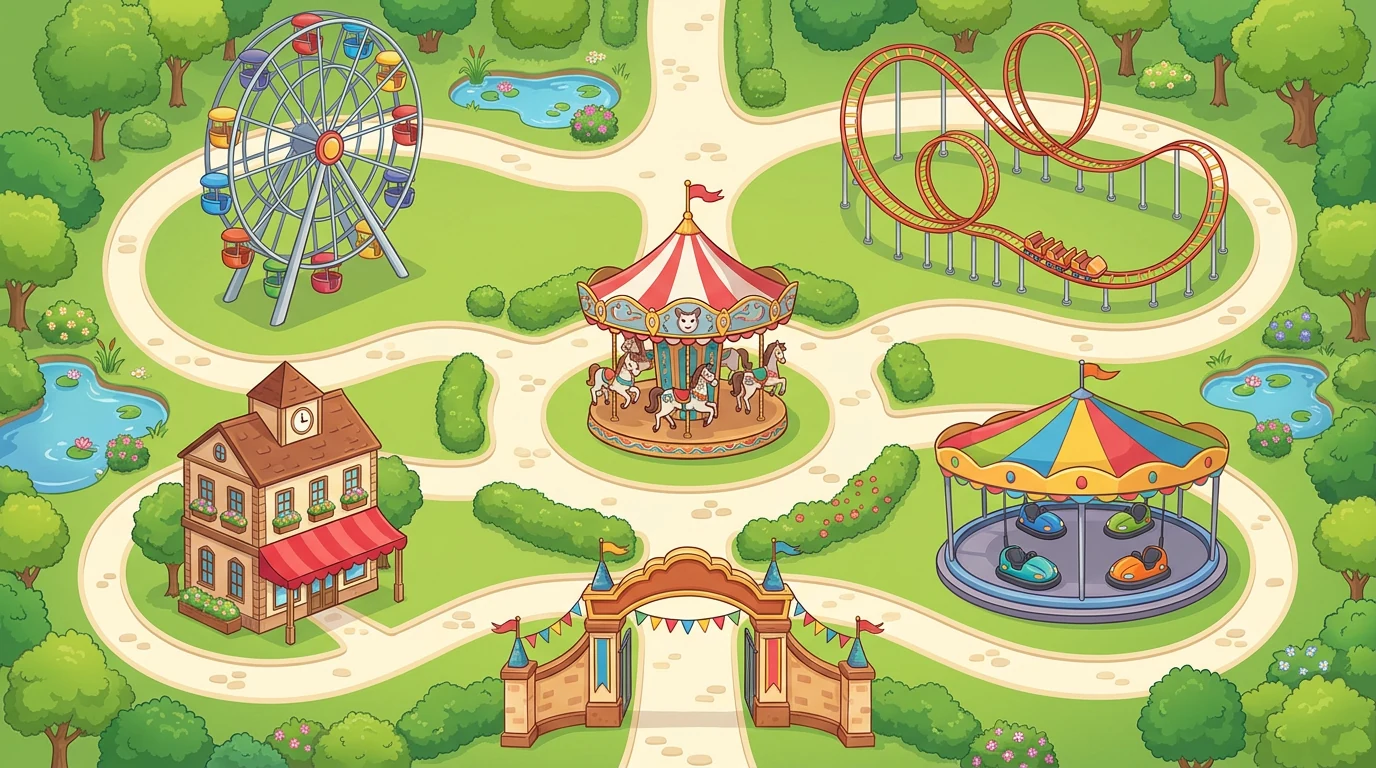
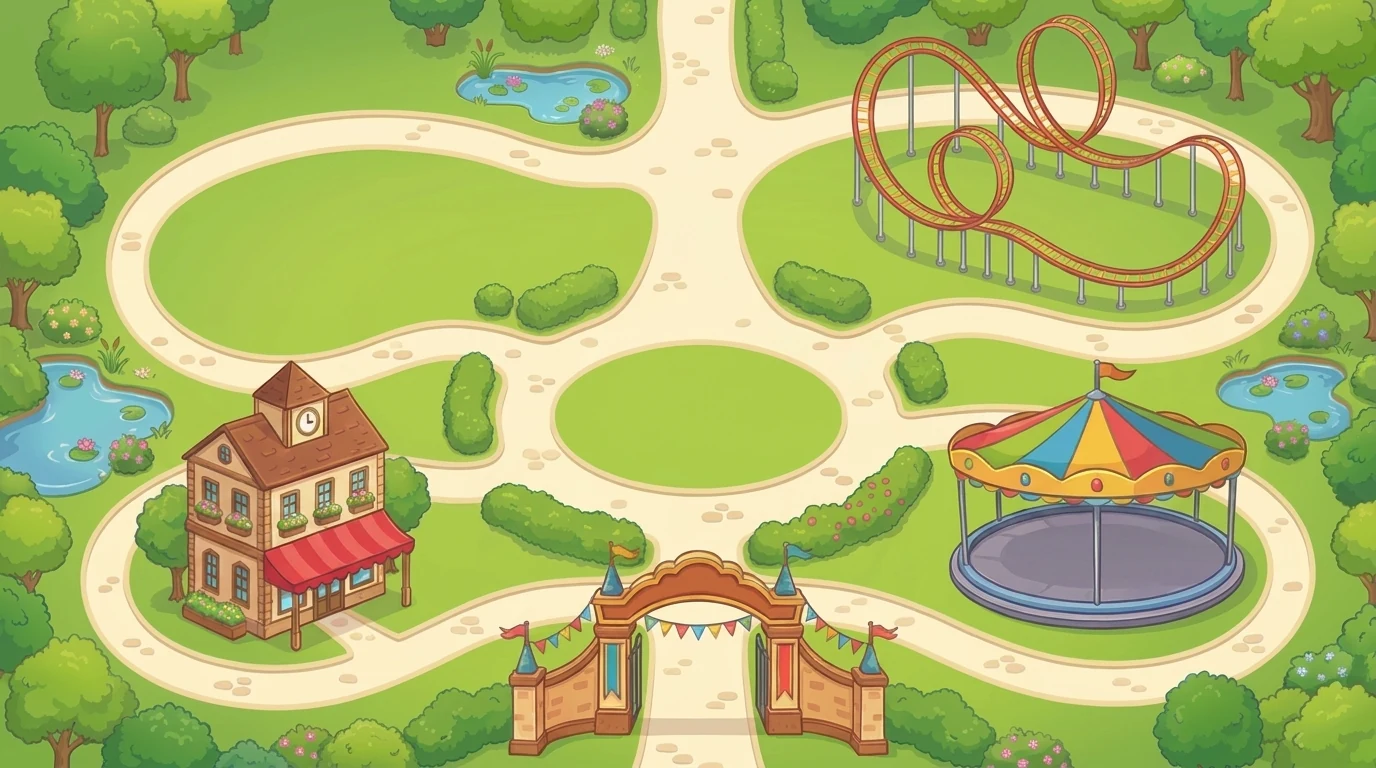
feat: 놀이공원 지도의 놀이기구들이 실제로 움직이게 — 기구마다 고브럽이 타고 있는 모습(정면·측면·뒷면)으로 교체
지금까지는 배경 지도에 그려진 기구는 멈춰 있고 그 위로 꼬마 고브럽만 떠다녔다.
기구 자체를 움직이려면 납작한 배경 그림에서 기구를 떼어내야 해서, 지도에서 관람차·회전목마를
지우고(빈 잔디로) 롤러코스터 열차와 범퍼카도 비운 뒤, 기구를 개별 스프라이트로 새로 그려 얹었다.

- 관람차: 바퀴(림+살)가 통째로 돌고 곤돌라 8대는 늘 수평을 유지하며 매달려 흔들린다.
  받침 A프레임은 바퀴 뒤에 깔아 원래 구조 그대로 보이게 했다.
- 회전목마: 말 5마리가 단 위를 돌면서 위아래로 오르내리고, 뒤쪽으로 넘어간 말은
  z-index를 낮춰 기둥·차양 뒤로 가려진다. 진행 방향에 맞춰 좌우로 뒤집힌다.
- 롤러코스터: 선로를 따라 찍은 22개 점을 잇는 닫힌 경로 위를 열차가 달린다.
  진행 방향으로 기울고(±42°로 제한) 왼쪽으로 갈 땐 좌우 반전한다.
- 범퍼카: 4대가 바닥 원판 안을 제멋대로 돌아다니며, 이동 방향에 따라
  정면·측면·뒷면 스프라이트로 바뀌고 앞뒤 겹침도 y값으로 정렬한다.
- 기구 좌표는 지도 위에 눈금·후보 도형을 직접 그려 실측했다(범퍼카 바닥 1104,558 rx106 ry32 등).
- 지도 페이지에서는 공용 마스코트 고브럽(goblub-buddy)을 띄우지 않는다 — 기구에 탄 고브럽으로 충분.

diff --git a/park.html b/park.html
@@ -103,12 +103,12 @@
       border: 8px solid transparent; border-top-color: #fff8e6;
     }
 
-    /* 기구에 탄 꼬마 고브럽들 */
-    .pk-rider {
-      position: fixed; left: 0; top: 0; z-index: 8; pointer-events: none; will-change: transform;
-      filter: drop-shadow(0 2px 3px rgba(20, 50, 25, .45));
+    /* 움직이는 놀이기구 (고브럽이 타고 있다) */
+    .pk-ride {
+      position: fixed; left: 0; top: 0; z-index: 6; pointer-events: none; will-change: transform;
+      filter: drop-shadow(0 3px 4px rgba(20, 50, 25, .38));
     }
-    .pk-rider img { display: block; width: 100%; height: auto; -webkit-user-drag: none; }
+    .pk-ride img { display: block; width: 100%; height: auto; -webkit-user-drag: none; }
 
     /* 모바일: 지도가 좁아 누르기 어려우니 아래에 목록을 깔아준다 */
     .pk-list { display: none; }
@@ -144,17 +144,19 @@
     <div class="row" id="pk-rows"></div>
   </nav>
 
+  <!-- 지도 위에는 마스코트 고브럽을 띄우지 않는다 (기구에 탄 고브럽들로 충분) -->
+  <script>window.__goblubBuddy = true;</script>
   <script src="js/common.js?v=6" data-root="."></script>
   <script>
   (function () {
     // 지도 원본(1376×768) 기준 좌표 — 실측값
     var MAP = { w: 1376, h: 768 };
     var RIDES = [
-      { key: "fortune", x: 340,  y: 150, r: 118, icon: "🎡", name: "운세",           desc: "사주 · 궁합 · 타로 · 전생", href: "play/fortune-hub.html" },
-      { key: "tests",   x: 1055, y: 175, r: 130, icon: "🎢", name: "대환장 테스트",   desc: "내 유형 다 털리는 심리테스트", href: "play/tests.html" },
-      { key: "mini",    x: 680,  y: 330, r: 100, icon: "🎠", name: "미니 놀이터",     desc: "룰렛 · 질문카드 · 작명 · 마음배달", href: "play/mini.html" },
-      { key: "mini2",   x: 1075, y: 490, r: 108, icon: "🚗", name: "미니 놀이터 2",   desc: "팡팡 · 반응속도 · 로또 · 밸런스", href: "play/mini2.html" },
-      { key: "apps",    x: 292,  y: 488, r: 82, icon: "🎁", name: "앱 다운로드",     desc: "직접 만든 앱들을 모아둔 곳", soon: "📱 앱은 아직 준비 중이에요!" }
+      { key: "fortune", x: 348,  y: 195, r: 118, icon: "🎡", name: "운세",           desc: "사주 · 궁합 · 타로 · 전생", href: "play/fortune-hub.html" },
+      { key: "tests",   x: 1030, y: 160, r: 132, icon: "🎢", name: "대환장 테스트",   desc: "내 유형 다 털리는 심리테스트", href: "play/tests.html" },
+      { key: "mini",    x: 690,  y: 345, r: 116, icon: "🎠", name: "미니 놀이터",     desc: "룰렛 · 질문카드 · 작명 · 마음배달", href: "play/mini.html" },
+      { key: "mini2",   x: 1097, y: 485, r: 132, icon: "🚗", name: "미니 놀이터 2",   desc: "팡팡 · 반응속도 · 로또 · 밸런스", href: "play/mini2.html" },
+      { key: "apps",    x: 295,  y: 500, r: 100, icon: "🎁", name: "앱 다운로드",     desc: "직접 만든 앱들을 모아둔 곳", soon: "📱 앱은 아직 준비 중이에요!" }
     ];
 
     // 배경과 완전히 같은 박스를 실측해 좌표 기준으로 삼는다(스크롤바 편차 제거)
@@ -235,85 +237,127 @@
   </script>
 
   <script>
-  /* ===== 기구에 탄 꼬마 고브럽들 ===== */
+  /* ===== 실제로 움직이는 놀이기구들 — 고브럽이 정면·측면·뒷면으로 타고 있다 ===== */
   (function () {
-    var IMG = "design/img/home/gb-front.webp";
-    // 회색 고브럽을 색색으로 — sepia로 색을 입힌 뒤 색상만 돌린다
-    var TINTS = [12, 45, 95, 150, 195, 250, 300, 335];
-    function tint(deg) { return "sepia(1) saturate(3.2) hue-rotate(" + deg + "deg) brightness(1.02)"; }
+    var DIR = "design/img/park/";
+    // 스프라이트마다 세로/가로 비율 (내보낸 원본 크기 기준)
+    var AR = { wheel: 517/512, support: 361/320, gondola: 264/180, horse: 257/220,
+               carousel: 616/560, train: 138/420, "car-f": 233/180, "car-s": 166/180, "car-b": 235/180 };
 
-    var riders = [];
-    function make(kind, i, size) {
+    function make(name, z) {
       var d = document.createElement("div");
-      d.className = "pk-rider";
-      d.innerHTML = '<img src="' + IMG + '" alt="" />';
-      d.firstChild.style.filter = tint(TINTS[(i * 3 + kind.length) % TINTS.length]);
+      d.className = "pk-ride";
+      d.style.zIndex = z;
+      d.innerHTML = '<img src="' + DIR + name + '.webp" alt="" />';
       document.body.appendChild(d);
-      return { el: d, size: size, i: i };
+      return { el: d, img: d.firstChild, ar: AR[name], name: name };
     }
-
-    // 지도 원본 좌표 기준 배치
-    var WHEEL   = { cx: 308,  cy: 145, rx: 100, ry: 120, n: 8,  period: 30, size: 34 };
-    var CARO    = { cx: 680,  cy: 368, rx: 80,  ry: 19,  n: 5,  period: 11, size: 32 };
-    var BUMPER  = { cx: 1090, cy: 545, rx: 72,  ry: 26,  n: 4,               size: 32 };
-    // 롤러코스터 선로를 따라 찍은 점들
-    var TRACK = [[900,275],[960,265],[1020,255],[1075,248],[1130,243],[1180,232],
-                 [1215,203],[1222,170],[1205,145],[1170,132],[1130,136],[1090,150]];
-    var COASTER = { n: 3, period: 8, size: 30, gap: 0.05 };
-
-    var W = [], C = [], B = [], T = [];
-    for (var i = 0; i < WHEEL.n; i++)   W.push(make("wheel", i, WHEEL.size));
-    for (i = 0; i < CARO.n; i++)        C.push(make("caro", i, CARO.size));
-    for (i = 0; i < BUMPER.n; i++)      B.push(make("bump", i, BUMPER.size));
-    for (i = 0; i < COASTER.n; i++)     T.push(make("coast", i, COASTER.size));
-
-    function trackAt(u) {                      // 0~1 → 선로 위 좌표
-      u = Math.max(0, Math.min(0.9999, u));
-      var f = u * (TRACK.length - 1), k = Math.floor(f), t = f - k;
-      var a = TRACK[k], b = TRACK[Math.min(TRACK.length - 1, k + 1)];
-      return [a[0] + (b[0] - a[0]) * t, a[1] + (b[1] - a[1]) * t];
-    }
-
-    function set(r, mx, my, extra) {
+    // 지도 좌표 (mx,my)에 가로폭 wMap으로, 스프라이트의 (ax,ay) 지점을 맞춰 놓는다
+    function put(o, mx, my, wMap, ax, ay, extra) {
       var v = window.PK_VIEW; if (!v) return;
-      var sz = r.size * v.s;
-      r.el.style.width = sz + "px";
-      r.el.style.transform = "translate(" + (v.ox + mx * v.s - sz / 2) + "px," +
-        (v.oy + my * v.s - sz * 0.62) + "px)" + (extra || "");
+      var w = wMap * v.s, h = w * o.ar;
+      o.el.style.width = w + "px";
+      o.el.style.transform = "translate(" + (v.ox + mx * v.s - ax * w) + "px," +
+        (v.oy + my * v.s - ay * h) + "px)" + (extra || "");
+    }
+
+    /* --- 관람차 --- */
+    var WH = { cx: 348, cy: 143, rx: 108, ry: 130, n: 8, period: 26 };
+    var wSup = make("support", 4), wRim = make("wheel", 5);
+    wRim.el.style.transformOrigin = "50% 50%";
+    var cars = [];
+    for (var i = 0; i < WH.n; i++) cars.push(make("gondola", 6));
+
+    /* --- 회전목마 --- */
+    var CA = { x: 690, top: 210, w: 236, cx: 691, cy: 412, rx: 90, ry: 17, n: 5, period: 13 };
+    var caBody = make("carousel", 6);
+    var horses = [];
+    for (i = 0; i < CA.n; i++) horses.push(make("horse", 6));
+
+    /* --- 롤러코스터: 선로를 따라 찍은 점들(닫힌 순환) --- */
+    var TRACK = [[828,140],[832,95],[855,62],[895,45],[938,48],[976,73],[1004,108],
+                 [1046,144],[1086,152],[1140,141],[1186,147],[1218,162],[1230,190],
+                 [1212,222],[1170,248],[1120,266],[1065,272],[1010,262],[960,246],
+                 [915,230],[875,218],[845,190]];
+    var CO = { period: 15, w: 86 };
+    var train = make("train", 6);
+    train.el.style.transformOrigin = "50% 100%";
+
+    /* --- 범퍼카 --- */
+    var BU = { cx: 1104, cy: 558, rx: 106, ry: 32, n: 4, w: 44 };
+    var bumps = [];
+    for (i = 0; i < BU.n; i++) {
+      var b = make("car-f", 6);
+      b.el.style.transformOrigin = "50% 90%";
+      bumps.push({ o: b, cur: "car-f" });
+    }
+    function face(b, name) {
+      if (b.cur === name) return;
+      b.cur = name; b.o.ar = AR[name];
+      b.o.img.src = DIR + name + ".webp";
+    }
+    function bumpAt(t, i) {
+      var p = t * (0.42 + i * 0.09) + i * 1.9;
+      return [BU.cx + BU.rx * (0.72 * Math.sin(p) + 0.26 * Math.sin(2.3 * p + i)),
+              BU.cy + BU.ry * (0.72 * Math.cos(1.3 * p + i) + 0.26 * Math.cos(0.7 * p))];
+    }
+
+    function trackAt(u) {                       // 0~1 → 선로 위 좌표 (닫힌 고리)
+      var n = TRACK.length, f = ((u % 1) + 1) % 1 * n, k = Math.floor(f), t = f - k;
+      var a = TRACK[k % n], c = TRACK[(k + 1) % n];
+      return [a[0] + (c[0] - a[0]) * t, a[1] + (c[1] - a[1]) * t];
     }
 
     var t0 = Date.now();
     function tick() {
       var v = window.PK_VIEW;
       if (v) {
-        var t = (Date.now() - t0) / 1000;
+        var t = (Date.now() - t0) / 1000, i, a;
 
-        // 관람차 — 천천히 한 바퀴
-        for (var i = 0; i < W.length; i++) {
-          var a = (t / WHEEL.period + i / W.length) * Math.PI * 2;
-          set(W[i], WHEEL.cx + Math.cos(a) * WHEEL.rx, WHEEL.cy + Math.sin(a) * WHEEL.ry);
+        /* 관람차 — 바퀴가 통째로 돌고, 곤돌라는 늘 수평을 지킨다 */
+        var spin = t / WH.period * 360;
+        put(wSup, WH.cx, WH.cy, 180, 0.5, 0.207);
+        put(wRim, WH.cx, WH.cy, WH.rx * 2, 0.5, 0.5,
+            " scaleY(" + (WH.ry / WH.rx / AR.wheel) + ") rotate(" + spin + "deg)");
+        for (i = 0; i < cars.length; i++) {
+          a = (spin * Math.PI / 180) + i / cars.length * Math.PI * 2;
+          put(cars[i], WH.cx + Math.cos(a) * WH.rx * 0.9,
+                       WH.cy + Math.sin(a) * WH.ry * 0.9, 30, 0.5, 0.02,
+              " rotate(" + (Math.sin(a * 2 + t) * 4) + "deg)");
+          cars[i].el.style.transformOrigin = "50% 6%";
         }
-        // 회전목마 — 돌면서 위아래로
-        for (i = 0; i < C.length; i++) {
-          var b = (t / CARO.period + i / C.length) * Math.PI * 2;
-          var bob = Math.sin(b * 3) * 5;
-          set(C[i], CARO.cx + Math.cos(b) * CARO.rx, CARO.cy + Math.sin(b) * CARO.ry + bob);
+
+        /* 회전목마 — 말이 돌면서 위아래로, 뒤쪽 말은 기둥 뒤로 숨는다 */
+        put(caBody, CA.x, CA.top, CA.w, 0.5, 0);
+        for (i = 0; i < horses.length; i++) {
+          a = (t / CA.period + i / horses.length) * Math.PI * 2;
+          var front = Math.sin(a) > 0;
+          horses[i].el.style.zIndex = front ? 7 : 5;
+          put(horses[i], CA.cx + Math.cos(a) * CA.rx,
+                         CA.cy + Math.sin(a) * CA.ry + Math.sin(a * 3 + i) * 5,
+              46, 0.5, 1, front ? " scaleX(-1)" : "");
+          horses[i].el.style.transformOrigin = "50% 100%";
         }
-        // 범퍼카 — 제멋대로 부딪히며 돌아다님
-        for (i = 0; i < B.length; i++) {
-          var p = t * (0.55 + i * 0.13) + i * 1.7;
-          var x = BUMPER.cx + Math.sin(p) * BUMPER.rx * (0.55 + 0.4 * Math.cos(p * 0.7 + i));
-          var y = BUMPER.cy + Math.cos(p * 1.3 + i) * BUMPER.ry;
-          set(B[i], x, y, " rotate(" + (Math.sin(p * 2) * 9) + "deg)");
-        }
-        // 롤러코스터 — 선로를 타고 달린다
-        for (i = 0; i < T.length; i++) {
-          var u = (t / COASTER.period - i * COASTER.gap) % 1;
-          if (u < 0) u += 1;
-          var q = trackAt(u);
-          var fade = Math.min(1, u / 0.06, (1 - u) / 0.06);
-          T[i].el.style.opacity = Math.max(0, fade);
-          set(T[i], q[0], q[1]);
+
+        /* 롤러코스터 — 선로를 타고 달린다 */
+        var u = t / CO.period, q = trackAt(u), q2 = trackAt(u + 0.004);
+        var dx = q2[0] - q[0], dy = q2[1] - q[1];
+        var ang = Math.atan2(dy, dx) * 180 / Math.PI, flip = false;
+        if (ang > 90 || ang < -90) { flip = true; ang += (ang > 0 ? -180 : 180); }
+        if (ang > 42) ang = 42; if (ang < -42) ang = -42;
+        put(train, q[0], q[1], CO.w, 0.5, 1,
+            " rotate(" + ang + "deg)" + (flip ? " scaleX(-1)" : ""));
+
+        /* 범퍼카 — 돌아다니며 방향에 따라 정면·측면·뒷면으로 바뀐다 */
+        for (i = 0; i < bumps.length; i++) {
+          var p0 = bumpAt(t, i), p1 = bumpAt(t + 0.12, i);
+          var vx = p1[0] - p0[0], vy = p1[1] - p0[1];
+          var side = Math.abs(vx) > Math.abs(vy) * 1.15;
+          face(bumps[i], side ? "car-s" : (vy > 0 ? "car-f" : "car-b"));
+          bumps[i].o.el.style.zIndex = 4 + Math.round((p0[1] - BU.cy + BU.ry) / (2 * BU.ry) * 4);
+          put(bumps[i].o, p0[0], p0[1], BU.w, 0.5, 0.94,
+              " rotate(" + (Math.sin(t * 1.7 + i) * 5) + "deg)" +
+              (side && vx < 0 ? " scaleX(-1)" : ""));
         }
       }
       requestAnimationFrame(tick);
